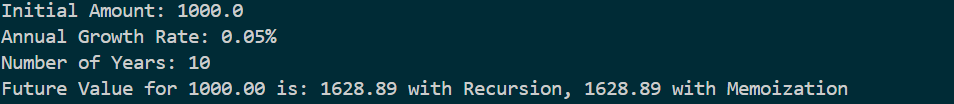
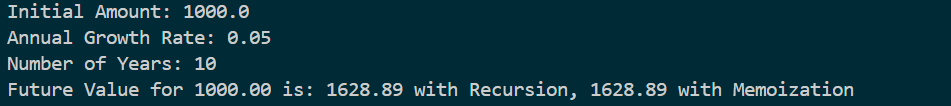
percentage sign removed from growth rate

diff --git a/Week 1/Algorthms_Data Structures/Ex 07 Financial Forecasting/FinancialForecasting.java b/Week 1/Algorthms_Data Structures/Ex 07 Financial Forecasting/FinancialForecasting.java
@@ -42,7 +42,7 @@ public class FinancialForecasting {
         int years = 10;
 
         System.out.println("Initial Amount: " + principal);
-        System.out.println("Annual Growth Rate: " + rate + "%");
+        System.out.println("Annual Growth Rate: " + rate);
         System.out.println("Number of Years: " + years);
 
         // Calculate the future value using the separate function
